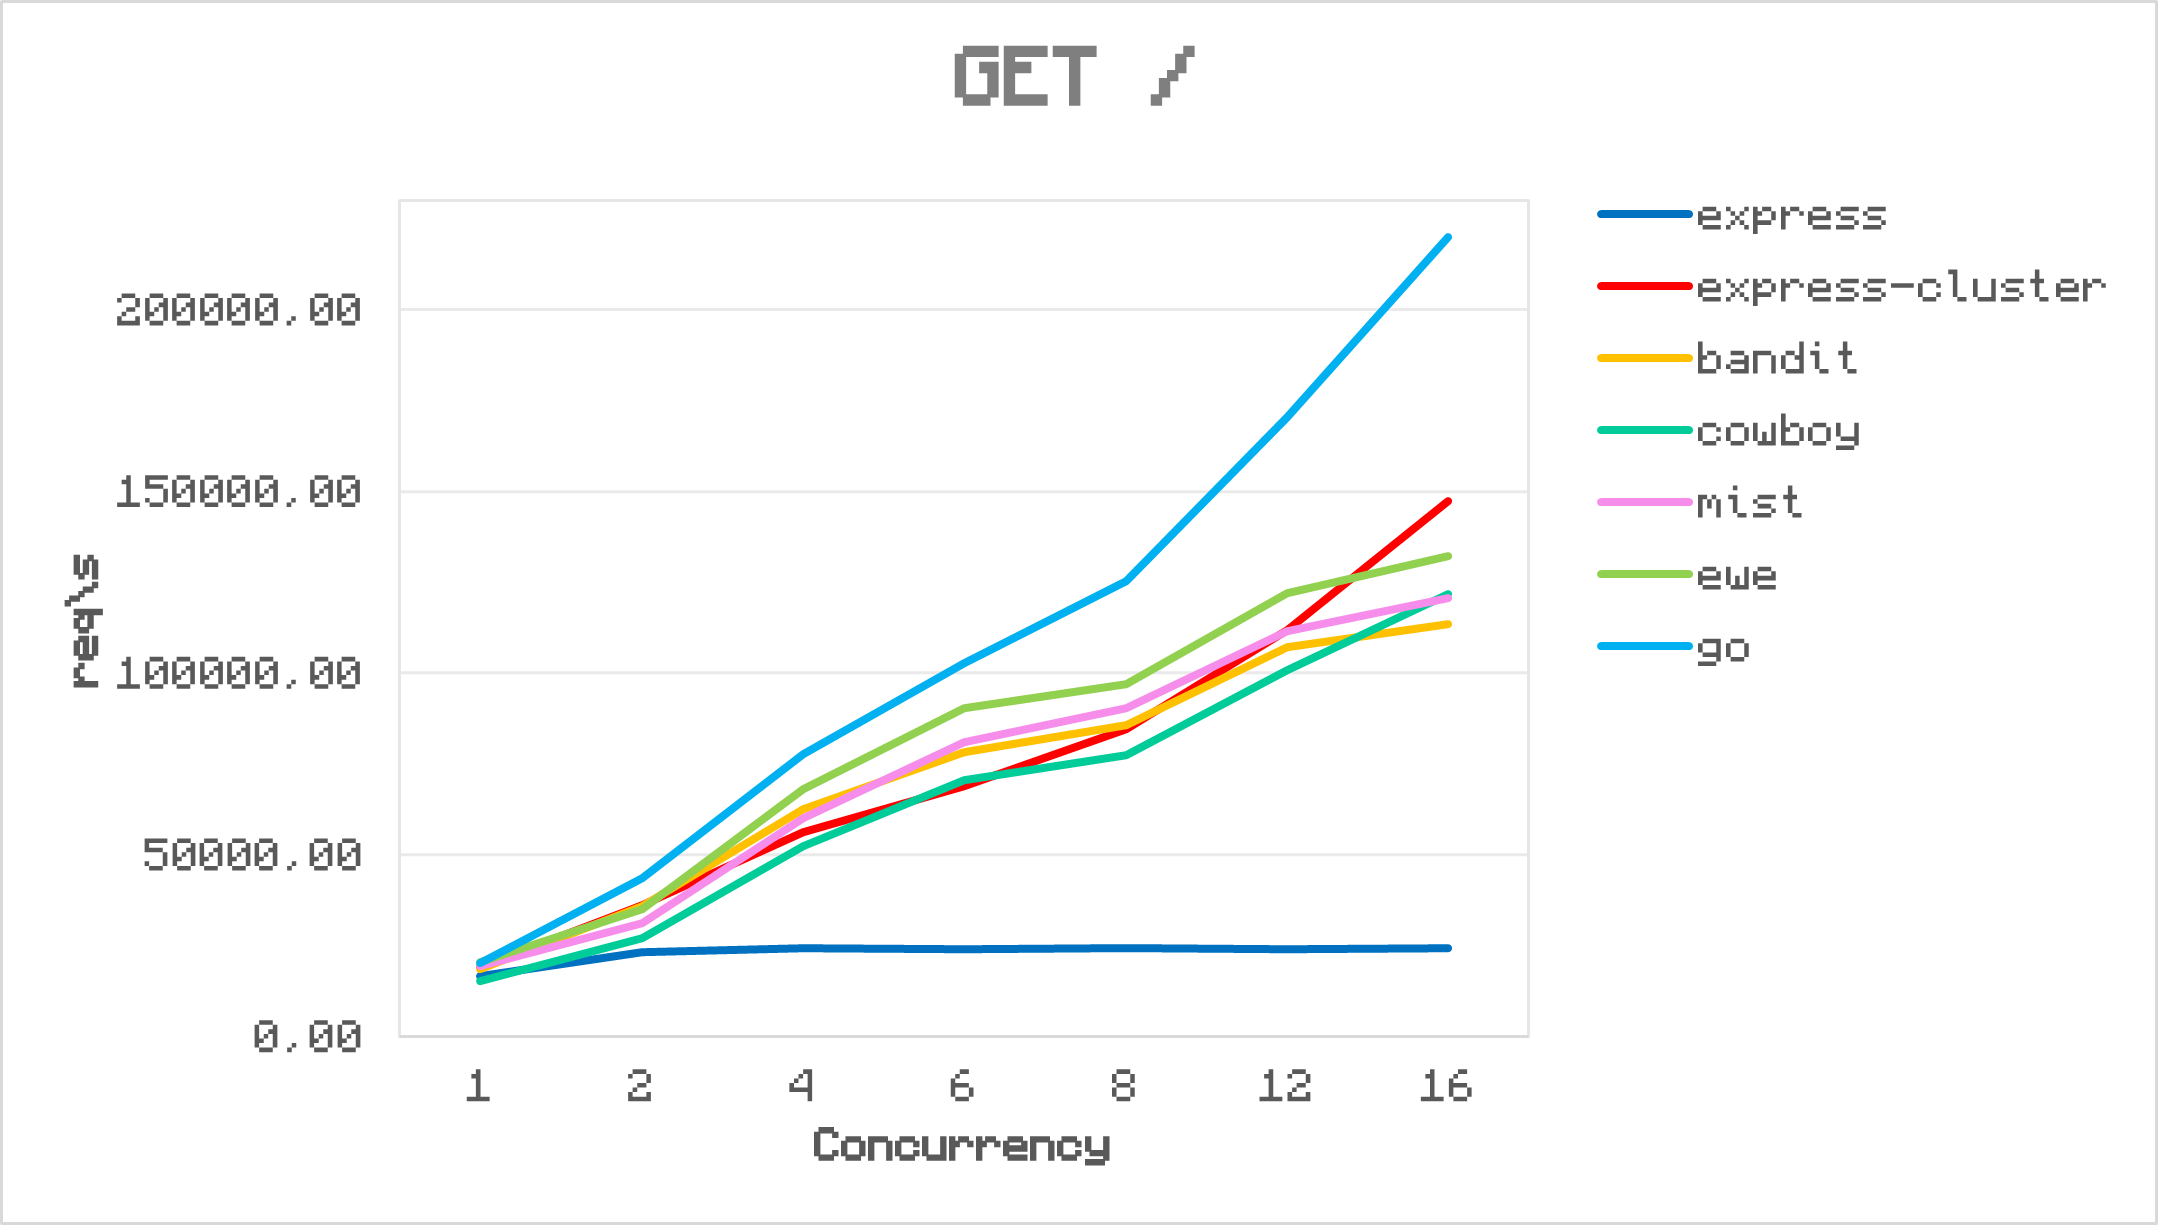
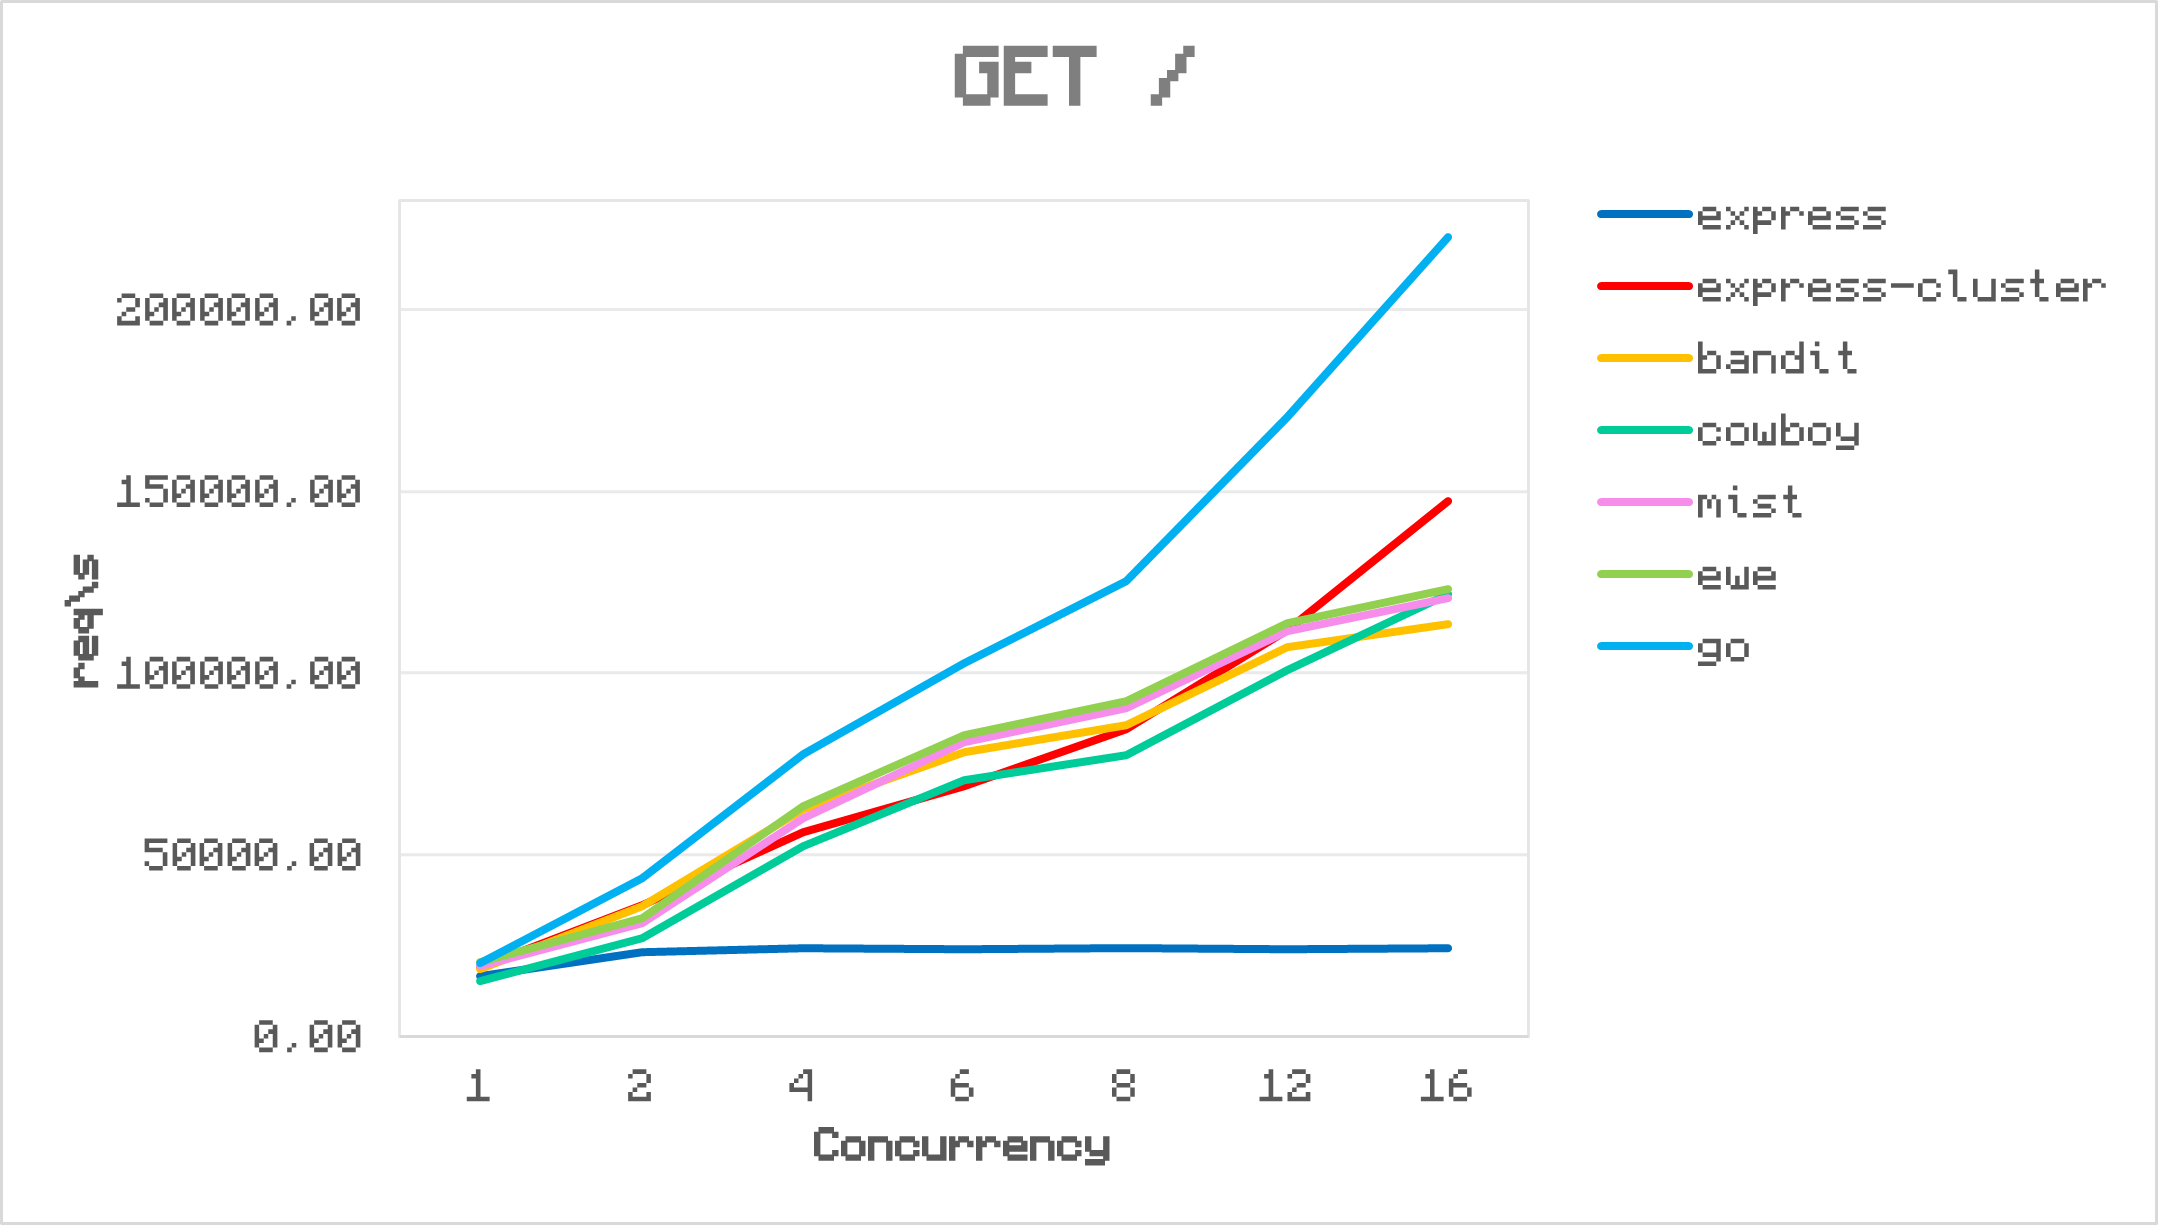
measure ewe v0.10.0

Changed region(s): [[0.5278, 0.4343, 0.683, 0.5584], [0.3726, 0.5584, 0.5278, 0.6514], [0.2484, 0.6514, 0.3726, 0.7755]]

diff --git a/README.md b/README.md
@@ -20,6 +20,7 @@ The frameworks tested are:
   - Bandit (OTP 28 / Elixir 1.18.4)
   - Cowboy (OTP 28)
   - Mist (OTP 28)
+  - Ewe (OTP 28)
   - Go (1.25)
 
 You can view the tests in `run.sh` but the cases are:
@@ -41,7 +42,7 @@ Each application was tested with [h2load](https://nghttp2.org/documentation/h2lo
 |bandit|18451.33 req/s|35776.73 req/s|62642.7 req/s|78221.73 req/s|85612.57 req/s|107025.13 req/s|113417.9 req/s
 |cowboy|15166.73 req/s|26977.5 req/s|52466.73 req/s|70499.67 req/s|77445.8 req/s|100939.17 req/s|121844.73 req/s
 |mist|19118.4 req/s|31264.07 req/s|59846.37 req/s|80669.93 req/s|88640.33 req/s|112679.67 req/s|120934.63 req/s
-|ewe|20415.9 req/s|34935.93 req/s|67941.63 req/s|90494.83 req/s|96863.83 req/s|122107.63 req/s|132089.97 req/s
+|ewe|20525.33 req/s|32473.97 req/s|63399.30 req/s|82851.93 req/s|92417.90 req/s|113706.60 req/s|123049.93 req/s
 |go|20136.63 req/s|43623.03 req/s|77713.4 req/s|102672.6 req/s|125250.87 req/s|170414.87 req/s|220032.57 req/s
 
 							
@@ -54,7 +55,7 @@ Each application was tested with [h2load](https://nghttp2.org/documentation/h2lo
 |bandit|17838.57 req/s|34603.83 req/s|60589.77 req/s|75532.83 req/s|83675.93 req/s|104261.1 req/s|110191.77 req/s
 |cowboy|15135.77 req/s|26452.37 req/s|51294.5 req/s|71113.37 req/s|75720.07 req/s|99768 req/s|120167.17 req/s
 |mist|18646.03 req/s|30039.97 req/s|59363.47 req/s|79538.53 req/s|87675.73 req/s|108740.07 req/s|118126.83 req/s
-|ewe|20563.13 req/s|34599.6 req/s|65303.43 req/s|88377.73 req/s|94079.57 req/s|119310.53 req/s|127840.1 req/s
+|ewe|19254.07 req/s|31013.73 req/s|60104.53 req/s|79636.03 req/s|87611.47 req/s|109800.77 req/s|119102.77 req/s
 |go|19430.5 req/s|43080.43 req/s|75616.13 req/s|99338.6 req/s|121077.8 req/s|164438.77 req/s|210094.2 req/s
 							
 #### `POST /user`
@@ -65,8 +66,8 @@ Each application was tested with [h2load](https://nghttp2.org/documentation/h2lo
 |express-cluster|19995.37 req/s|39695.33 req/s|69727.73 req/s|81066.57 req/s|99230.27 req/s|123195.87 req/s|152481.27 req/s
 |bandit|14569.93 req/s|28827.9 req/s|47527.17 req/s|60675.73 req/s|68327.67 req/s|85675.13 req/s|89894.93 req/s
 |cowboy|15738.73 req/s|21853.47 req/s|41168.27 req/s|55406.7 req/s|62861.23 req/s|82749.07 req/s|99594.2 req/s
-|mist|16665.27 req/s|31531.37 req/s|53419.8 req/s|71256.9 req/s|79508.8 req/s|96559.5 req/s|105499.8 req/s
-|ewe|17103.53 req/s|28413.4 req/s|56640.4 req/s|74901.13 req/s|82842.77 req/s|103570.33 req/s|110488.5 req/s
+|mist|16250.27 req/s|30757.47 req/s|54885.67 req/s|69790.53 req/s|77654.83 req/s|96966.47 req/s|104407.83 req/s
+|ewe|16521.53 req/s|25220.5 req/s|51485.2 req/s|67137.47 req/s|76656.7 req/s|95753.87 req/s|103821.57 req/s
 |go|15648.87 req/s|31212.33 req/s|54389.67 req/s|67822.47 req/s|65711.9 req/s|63555.73 req/s|72705.97 req/s
 
 ![GET /](/results/get.png)
